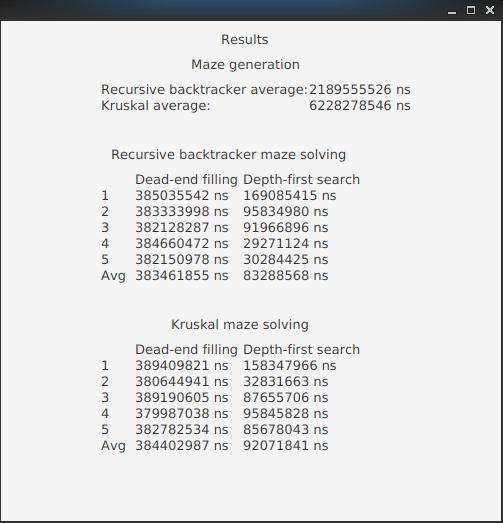
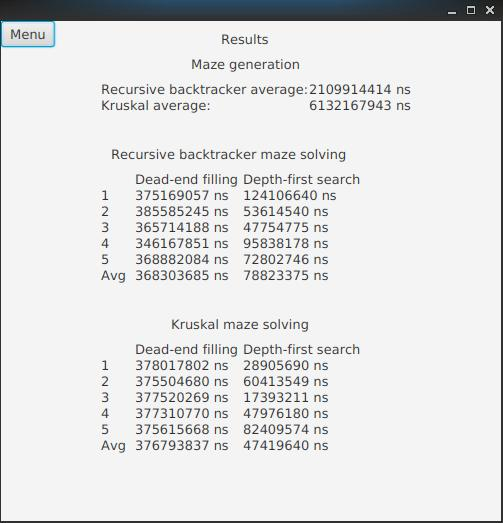
More updates to the documentation.

diff --git a/MazeAlgorithmsComparison/src/main/java/maze/ui/MazeUI.java b/MazeAlgorithmsComparison/src/main/java/maze/ui/MazeUI.java
@@ -533,7 +533,7 @@ public class MazeUI extends Application {
             krusResultsGrid.setLayoutX(100);
             krusResultsGrid.setLayoutY(320);
             
-            performanceResultsPane.getChildren().addAll(resultsTitle,
+            performanceResultsPane.getChildren().addAll(menu, resultsTitle,
                     mazeGenerationTitle, generationResultsGrid,
                     recBSolvingTitle, recResultsGrid, kruskalSolvingTitle,
                     krusResultsGrid);

diff --git a/Documentation/Manual.md b/Documentation/Manual.md
@@ -29,7 +29,7 @@ When one of the two maze generation buttons ("Recursive backtracker" and "Kruska
 If the "Performance tests" button is clicked in the menu the you will be taken to the view where you can start the performance tests. You will see a button that says "Start the tests". When this button is clicked the performance tests will be run. There is no loading screen so even though it may seem like the program has crashed it is just running the tests. It may take a few minutes depending on the environment the program is run in. Once the tests are done the results will be displayed in three sections. In the first section the generating algorithms' average perfromance time will be displayed. In the second and third section the solving algorithms' results from individual runs as well as an average can be seen when solving mazes generated by both of the generating algorithms. More information about the tests can be found in the [testing document](https://github.com/H4m5t3r/Comparison-of-maze-solving-algorithms/blob/master/Documentation/Testing%20document.md#performance-tests).
 
 **The view where the user can start the performance tests.**
-![]()
+![start performance tests screen](https://raw.githubusercontent.com/H4m5t3r/Comparison-of-maze-solving-algorithms/master/Documentation/Pictures/start_tests_screen.jpg)
 
 **An example of gathered test data.**
-![]()
+![performance test results](https://raw.githubusercontent.com/H4m5t3r/Comparison-of-maze-solving-algorithms/master/Documentation/Pictures/test_results.jpg)

diff --git a/README.md b/README.md
@@ -26,6 +26,8 @@ In this project I will create a program that generates perfect mazes (mazes with
 
 [Week 6](https://github.com/H4m5t3r/Comparison-of-maze-solving-algorithms/blob/master/Documentation/Weekly%20reports/Week%206.md#week-6)
 
+[Week 7](https://github.com/H4m5t3r/Comparison-of-maze-solving-algorithms/blob/master/Documentation/Weekly%20reports/Week%206.md#week-7)
+
 ## Useful commands
 **Run these commands in the folder "MazeAlgorithmsComparison"**
 

diff --git a/Documentation/Weekly reports/Week 7.md b/Documentation/Weekly reports/Week 7.md
@@ -1,0 +1,1 @@
+# Week 7
